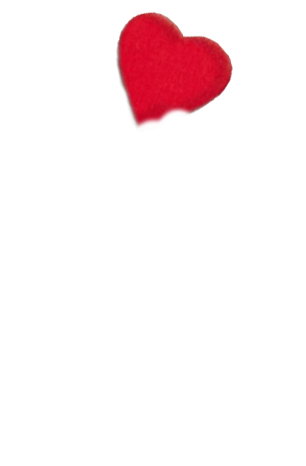
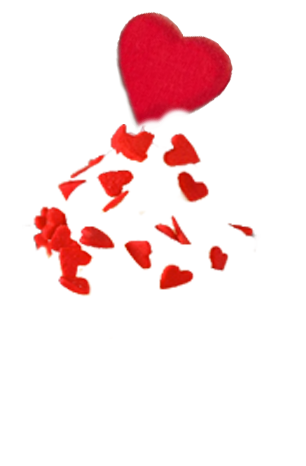
mas topping, limpieza js

diff --git a/main.js b/main.js
@@ -73,15 +73,8 @@ cerrarContenedor.addEventListener('click',() =>{
   location.reload();
 } )
 
-const mostrar1 = function(){
-  mordisco1.style.opacity = 1;
-}
-const mostrar2 = function(){
-  mordisco2.style.opacity = 1;
-}
 
-
- var contador = '0'; 
+var contador = '0'; 
 
 const comer = function() {
 
